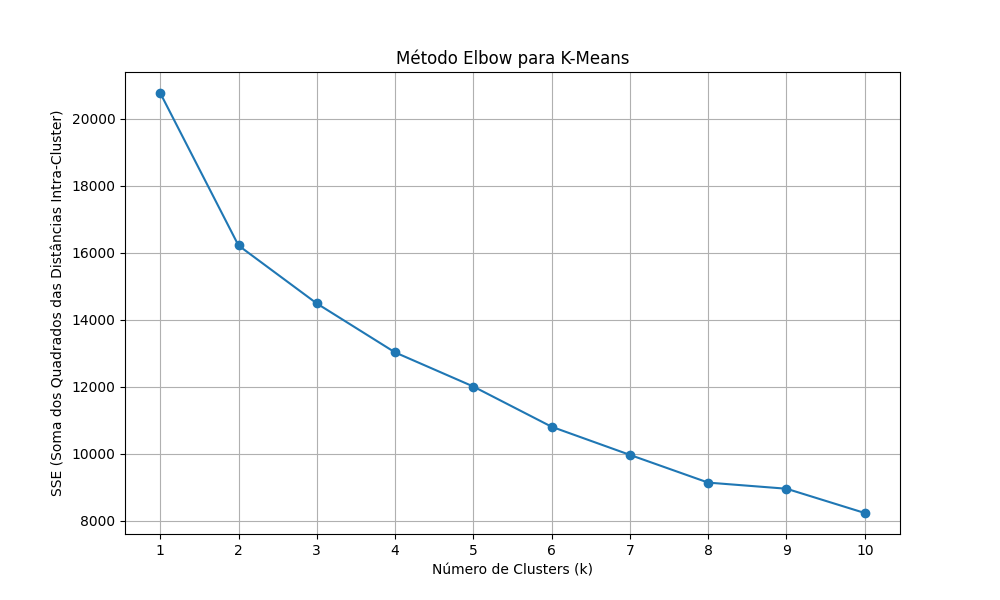
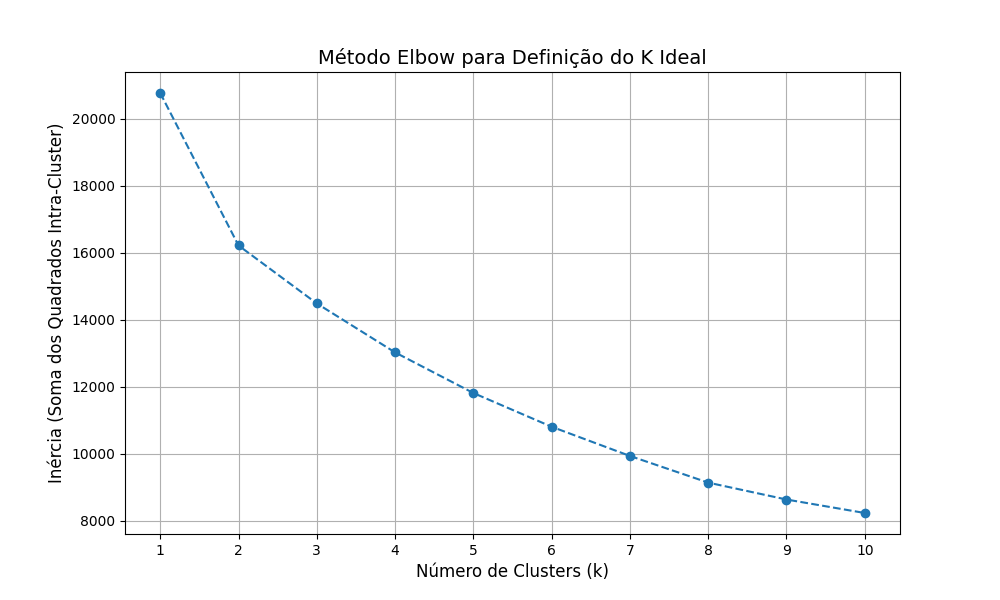
kmeans fix

diff --git a/codigo/kmeans.py b/codigo/kmeans.py
@@ -4,201 +4,180 @@ from sklearn.cluster import KMeans
 from sklearn.preprocessing import StandardScaler
 import matplotlib.pyplot as plt
 import seaborn as sns
-from sklearn.decomposition import PCA # Para visualização em 2D
+from sklearn.decomposition import PCA
 import os
 import sys
 
-# Adiciona o diretório atual ao sys.path para que projeto_am.py possa ser importado
-# Isso é importante se projeto_am.py não estiver no mesmo diretório ou em um caminho conhecido
+# Garante que o diretório do script esteja no path para importação
 script_dir = os.path.dirname(os.path.abspath(__file__))
 if script_dir not in sys.path:
     sys.path.append(script_dir)
 
-# Importa as funções do seu projeto_am.py
-# Assume que projeto_am.py está no mesmo diretório ou em um diretório acessível pelo PYTHONPATH
 try:
     from projeto_am import carregar_dados_essenciais, processar_historico, preparar_dados_finais
     print("Módulos de 'projeto_am.py' importados com sucesso.")
 except ImportError as e:
     print(f"Erro ao importar módulos de 'projeto_am.py': {e}")
-    print("Certifique-se de que 'projeto_am.py' está no mesmo diretório ou no PYTHONPATH.")
     sys.exit("Não foi possível carregar as funções de pré-processamento.")
 
 # --- Configurações ---
-CAMINHO_BASE_ORIGINAL = 'dados/base.xlsx' # Caminho para o seu arquivo base.xlsx
-PASTA_RELATORIO_KMEANS = 'resultados_kmeans' # Pasta para salvar os resultados do K-Means
+CAMINHO_BASE_ORIGINAL = 'dados/base.xlsx'
+PASTA_RELATORIO_KMEANS = 'resultados_kmeans'
 
 def gerar_df_final_para_kmeans(caminho_base):
     """
-    Chama as funções de pré-processamento do projeto_am.py para gerar o df_final.
-    Adapta o df_final para uso com K-Means (seleciona numéricas, trata NaNs).
+    Chama o pipeline de 'projeto_am.py' para gerar o df_final e o prepara para o K-Means.
     """
     print("\nGerando df_final a partir de 'projeto_am.py' para K-Means...")
-    try:
-        # Carrega e processa os dados usando suas funções existentes
-        df_alunos, df_historico = carregar_dados_essenciais(caminho_base)
-        df_historico_agg = processar_historico(df_historico)
-        df_final = preparar_dados_finais(df_alunos, df_historico_agg)
-        
-        print("df_final gerado com sucesso pelo pipeline de 'projeto_am.py'.")
+    df_alunos, df_historico = carregar_dados_essenciais(caminho_base)
+    df_historico_agg = processar_historico(df_historico)
+    df_final = preparar_dados_finais(df_alunos, df_historico_agg)
+    print("df_final gerado com sucesso.")
 
-        # Selecionar apenas as colunas numéricas que serão features para o K-Means
-        # Excluir 'id' e 'Evasao' (ou 'Situacao' original, que gera Evasao)
-        features_para_kmeans = df_final.select_dtypes(include=np.number).drop(
-            columns=['id', 'Evasao'], errors='ignore'
-        )
+    features_para_kmeans = df_final.select_dtypes(include=np.number).drop(
+        columns=['id', 'Evasao'], errors='ignore'
+    )
 
-        # Tratar NaNs nas features (substituir por mediana) - K-Means não lida com NaNs
-        # Embora você diga que a base está tratada, esta é uma verificação de segurança
-        if features_para_kmeans.isnull().sum().sum() > 0:
-            print("Atenção: Valores NaN encontrados nas features numéricas. Preenchendo com a mediana.")
-            for col in features_para_kmeans.columns:
-                if features_para_kmeans[col].isnull().any():
-                    median_val = features_para_kmeans[col].median()
-                    features_para_kmeans[col] = features_para_kmeans[col].fillna(median_val)
-                    print(f"  Preenchendo NaN em '{col}' com a mediana: {median_val}")
-        else:
-            print("Não há valores NaN nas features numéricas. Ótimo!")
+    if features_para_kmeans.isnull().sum().sum() > 0:
+        print("Atenção: Valores NaN encontrados. Preenchendo com a mediana.")
+        features_para_kmeans.fillna(features_para_kmeans.median(), inplace=True)
+    else:
+        print("Não há valores NaN nas features numéricas. Ótimo!")
 
-        print(f"Dados preparados para K-Means. Número de features: {features_para_kmeans.shape[1]}")
-        # Retorna as features para K-Means e também id/Evasao para análise pós-cluster
-        return features_para_kmeans, df_final[['id', 'Evasao']].copy()
-
-    except Exception as e:
-        print(f"Erro ao gerar df_final a partir de 'projeto_am.py': {e}")
-        sys.exit("Falha na preparação dos dados. Verifique 'projeto_am.py'.")
+    print(f"Dados preparados para K-Means. Número de features: {features_para_kmeans.shape[1]}")
+    return features_para_kmeans, df_final[['id', 'Evasao']].copy()
 
 def aplicar_kmeans(X, n_clusters):
     """
-    Aplica o algoritmo K-Means aos dados fornecidos.
+    Aplica o K-Means e retorna o modelo, labels, dados escalados e o scaler.
     """
     print(f"\nAplicando K-Means com {n_clusters} clusters...")
     scaler = StandardScaler()
     X_scaled = scaler.fit_transform(X)
-
-    kmeans = KMeans(n_clusters=n_clusters, random_state=42, n_init='auto')
+    kmeans = KMeans(n_clusters=n_clusters, random_state=42, n_init=10)
     clusters = kmeans.fit_predict(X_scaled)
     print("K-Means aplicado com sucesso.")
     return clusters, X_scaled, scaler, kmeans
 
-def visualizar_clusters(X_scaled, clusters, df_info, n_clusters, pasta_saida):
+def encontrar_melhor_k(X_scaled, max_k, pasta_saida):
     """
-    Visualiza os clusters em 2D usando PCA e salva os gráficos.
+    Usa o método Elbow para sugerir o número ótimo de clusters (k).
     """
-    print("\nGerando visualizações dos clusters...")
-    if not os.path.exists(pasta_saida):
-        os.makedirs(pasta_saida)
+    print("\nEncontrando o número ótimo de clusters (Método Elbow)...")
+    sse = []
+    for k in range(1, max_k + 1):
+        kmeans = KMeans(n_clusters=k, random_state=42, n_init=10)
+        kmeans.fit(X_scaled)
+        sse.append(kmeans.inertia_)
 
+    plt.figure(figsize=(10, 6))
+    plt.plot(range(1, max_k + 1), sse, marker='o', linestyle='--')
+    plt.xlabel('Número de Clusters (k)', fontsize=12)
+    plt.ylabel('Inércia (Soma dos Quadrados Intra-Cluster)', fontsize=12)
+    plt.title('Método Elbow para Definição do K Ideal', fontsize=14)
+    plt.xticks(range(1, max_k + 1))
+    plt.grid(True)
+    caminho_grafico = os.path.join(pasta_saida, 'elbow_method.png')
+    plt.savefig(caminho_grafico)
+    plt.close()
+    print(f"Gráfico do Método Elbow salvo em: {caminho_grafico}")
+
+def visualizar_clusters(X_scaled, clusters, df_info, pasta_saida):
+    """
+    Visualiza os clusters em 2D usando PCA e a distribuição de evasão.
+    """
+    print("\nGerando visualizações principais dos clusters...")
+    n_clusters = len(np.unique(clusters))
+    
+    # --- GRÁFICO PCA COM LABELS MELHORADOS ---
     pca = PCA(n_components=2)
     X_pca = pca.fit_transform(X_scaled)
+    variancia_explicada = pca.explained_variance_ratio_ * 100
 
     df_viz = pd.DataFrame(X_pca, columns=['PC1', 'PC2'])
     df_viz['Cluster'] = clusters
     df_viz['Evasao'] = df_info['Evasao'].values
 
-    plt.figure(figsize=(10, 8))
-    sns.scatterplot(x='PC1', y='PC2', hue='Cluster', data=df_viz, palette='viridis', legend='full', s=50, alpha=0.7)
-    plt.title(f'Clusters K-Means ({n_clusters} clusters) via PCA')
-    plt.xlabel('Componente Principal 1')
-    plt.ylabel('Componente Principal 2')
+    plt.figure(figsize=(12, 8))
+    sns.scatterplot(x='PC1', y='PC2', hue='Cluster', data=df_viz, palette='viridis', s=60, alpha=0.8, legend='full')
+    
+    titulo_pca = f'Visualização dos Clusters via PCA (k={n_clusters})'
+    label_pc1 = f'Componente Principal 1 ({variancia_explicada[0]:.1f}% da variância)'
+    label_pc2 = f'Componente Principal 2 ({variancia_explicada[1]:.1f}% da variância)'
+    
+    plt.title(titulo_pca, fontsize=14)
+    plt.xlabel(label_pc1, fontsize=12)
+    plt.ylabel(label_pc2, fontsize=12)
     plt.grid(True)
     plt.savefig(os.path.join(pasta_saida, f'clusters_kmeans_pca_{n_clusters}.png'))
-    plt.show()
     plt.close()
 
-    plt.figure(figsize=(8, 6))
+    plt.figure(figsize=(10, 7))
     sns.countplot(x='Cluster', hue='Evasao', data=df_viz, palette='viridis')
-    plt.title(f'Distribuição de Evasão por Cluster K-Means ({n_clusters} clusters)')
-    plt.xlabel('Cluster')
-    plt.ylabel('Contagem de Alunos')
+    plt.title(f'Distribuição de Evasão por Cluster (k={n_clusters})', fontsize=14)
+    plt.xlabel('Cluster', fontsize=12)
+    plt.ylabel('Contagem de Alunos', fontsize=12)
     plt.xticks(ticks=sorted(df_viz['Cluster'].unique()), labels=[f'Cluster {i}' for i in sorted(df_viz['Cluster'].unique())])
-    plt.legend(title='Evasão', labels=['Não Evadiu (0)', 'Evadiu (1)'])
+    plt.legend(title='Status do Aluno', labels=['Não Evadiu (0)', 'Evadiu (1)'])
     plt.savefig(os.path.join(pasta_saida, f'evasao_por_cluster_kmeans_{n_clusters}.png'))
-    plt.show()
     plt.close()
+    print(f"Visualizações principais salvas em: {pasta_saida}")
 
-    print(f"Visualizações salvas em: {pasta_saida}")
-
-def analisar_perfil_clusters(X_original, clusters, n_clusters, pasta_saida):
+def analisar_perfil_clusters(X_original, clusters, pasta_saida):
     """
-    Analisa o perfil médio de cada cluster em termos das features originais.
+    Analisa e descreve o perfil de cada cluster, gerando um boxplot para cada feature.
     """
-    print("\nAnalisando o perfil médio de cada cluster...")
+    print("\nAnalisando o perfil de cada cluster com gráficos detalhados...")
+    
+    # Cria uma pasta para os gráficos de comparação
+    pasta_comparacao = os.path.join(pasta_saida, 'comparacao_features')
+    os.makedirs(pasta_comparacao, exist_ok=True)
+    
+    # Adiciona a coluna de cluster ao dataframe original para facilitar a plotagem
+    df_analise_features = X_original.copy()
+    df_analise_features['Cluster'] = clusters
 
-    df_clustered_original = X_original.copy()
-    df_clustered_original['Cluster'] = clusters
-
-    cluster_profiles = df_clustered_original.groupby('Cluster').mean()
-
-    print("\nPerfil Médio de Cada Cluster (Valores Originais):")
-    print(cluster_profiles)
-    cluster_profiles.to_csv(os.path.join(pasta_saida, f'perfil_clusters_{n_clusters}.csv'), sep=';', decimal=',')
-    print(f"Perfil médio dos clusters salvo em: {pasta_saida}")
-
-    num_features_to_plot = min(5, X_original.shape[1])
-    for i, feature in enumerate(X_original.columns[:num_features_to_plot]):
-        plt.figure(figsize=(8, 5))
-        sns.barplot(x=cluster_profiles.index, y=feature, data=cluster_profiles, palette='viridis')
-        plt.title(f'Média de {feature} por Cluster')
-        plt.xlabel('Cluster')
-        plt.ylabel(f'Média de {feature}')
-        plt.savefig(os.path.join(pasta_saida, f'perfil_cluster_feature_{feature}.png'))
+    # --- NOVO: GRÁFICOS BOXPLOT PARA CADA FEATURE ---
+    for feature in X_original.columns:
+        plt.figure(figsize=(10, 6))
+        sns.boxplot(x='Cluster', y=feature, data=df_analise_features, palette='viridis')
+        plt.title(f'Comparação de "{feature}" entre Clusters', fontsize=14)
+        plt.xlabel('Cluster', fontsize=12)
+        plt.ylabel(feature, fontsize=12)
+        plt.grid(axis='y', linestyle='--', alpha=0.7)
+        caminho_boxplot = os.path.join(pasta_comparacao, f'boxplot_{feature}.png')
+        plt.savefig(caminho_boxplot)
         plt.close()
-
-def encontrar_melhor_k(X_scaled, max_k=10, pasta_saida='resultados_kmeans'):
-    """
-    Usa o método Elbow para encontrar o número ótimo de clusters (k).
-    """
-    print("\nEncontrando o número ótimo de clusters (Método Elbow)...")
-    sse = []
-    for k in range(1, max_k + 1):
-        kmeans = KMeans(n_clusters=k, random_state=42, n_init='auto')
-        kmeans.fit(X_scaled)
-        sse.append(kmeans.inertia_)
-
-    plt.figure(figsize=(10, 6))
-    plt.plot(range(1, max_k + 1), sse, marker='o')
-    plt.xlabel('Número de Clusters (k)')
-    plt.ylabel('SSE (Soma dos Quadrados das Distâncias Intra-Cluster)')
-    plt.title('Método Elbow para K-Means')
-    plt.xticks(range(1, max_k + 1))
-    plt.grid(True)
-    plt.savefig(os.path.join(pasta_saida, 'elbow_method.png'))
-    plt.show()
-    plt.close()
-    print(f"Gráfico do Método Elbow salvo em: {pasta_saida}")
-    print("Analise o gráfico para identificar o 'cotovelo', que sugere o k ideal.")
+        
+    print(f"Gráficos de comparação de features salvos na pasta: {pasta_comparacao}")
 
 if __name__ == '__main__':
     if not os.path.exists(PASTA_RELATORIO_KMEANS):
         os.makedirs(PASTA_RELATORIO_KMEANS)
 
-    # 1. Gerar o df_final chamando as funções do projeto_am.py
     features_kmeans_original, df_info_evasao = gerar_df_final_para_kmeans(CAMINHO_BASE_ORIGINAL)
 
     if features_kmeans_original.empty:
-        print("Nenhuma feature numérica válida encontrada para clusterização.")
-        sys.exit()
+        sys.exit("Nenhuma feature numérica válida encontrada para clusterização.")
 
-    # 2. Escalar os dados
-    scaler = StandardScaler()
-    X_scaled_kmeans = scaler.fit_transform(features_kmeans_original)
+    scaler_main = StandardScaler()
+    X_scaled_kmeans = scaler_main.fit_transform(features_kmeans_original)
 
-    # 3. Encontrar o K ideal
-    print("\nIniciando busca pelo K ideal...")
     encontrar_melhor_k(X_scaled_kmeans, max_k=10, pasta_saida=PASTA_RELATORIO_KMEANS)
 
-    # 4. Definir o número de clusters (AJUSTE ESTE VALOR APÓS ANÁLISE DO ELBOW PLOT)
-    num_clusters = 3 # Valor inicial, ajuste conforme o Elbow Plot
-    print(f"\nUtilizando {num_clusters} clusters para o K-Means...")
+    try:
+        num_clusters = int(input("\nApós analisar o gráfico do 'cotovelo', digite o número de clusters (k) desejado: "))
+    except ValueError:
+        print("Valor inválido. Usando k=3 como padrão.")
+        num_clusters = 3
+        
+    print(f"\nUtilizando k={num_clusters} para a análise final...")
 
-    # 5. Aplicar K-Means
-    clusters_labels, X_scaled_kmeans_used, scaler_used, kmeans_model = aplicar_kmeans(features_kmeans_original, num_clusters)
+    clusters_labels, X_scaled_used, scaler_used, kmeans_model = aplicar_kmeans(features_kmeans_original, num_clusters)
+    
+    visualizar_clusters(X_scaled_used, clusters_labels, df_info_evasao, PASTA_RELATORIO_KMEANS)
 
-    # 6. Visualizar os clusters e analisar a distribuição de evasão
-    visualizar_clusters(X_scaled_kmeans_used, clusters_labels, df_info_evasao, num_clusters, PASTA_RELATORIO_KMEANS)
+    # A análise de perfil agora gera os gráficos de boxplot
+    analisar_perfil_clusters(features_kmeans_original, clusters_labels, PASTA_RELATORIO_KMEANS)
 
-    # 7. Analisar o perfil de cada cluster
-    analisar_perfil_clusters(features_kmeans_original, clusters_labels, num_clusters, PASTA_RELATORIO_KMEANS)
-
-    print("\nProcesso K-Means concluído. Verifique a pasta 'resultados_kmeans' para os gráficos e CSVs.")
+    print("\nProcesso K-Means concluído. Verifique a pasta 'resultados_kmeans' e a subpasta 'comparacao_features'.")
